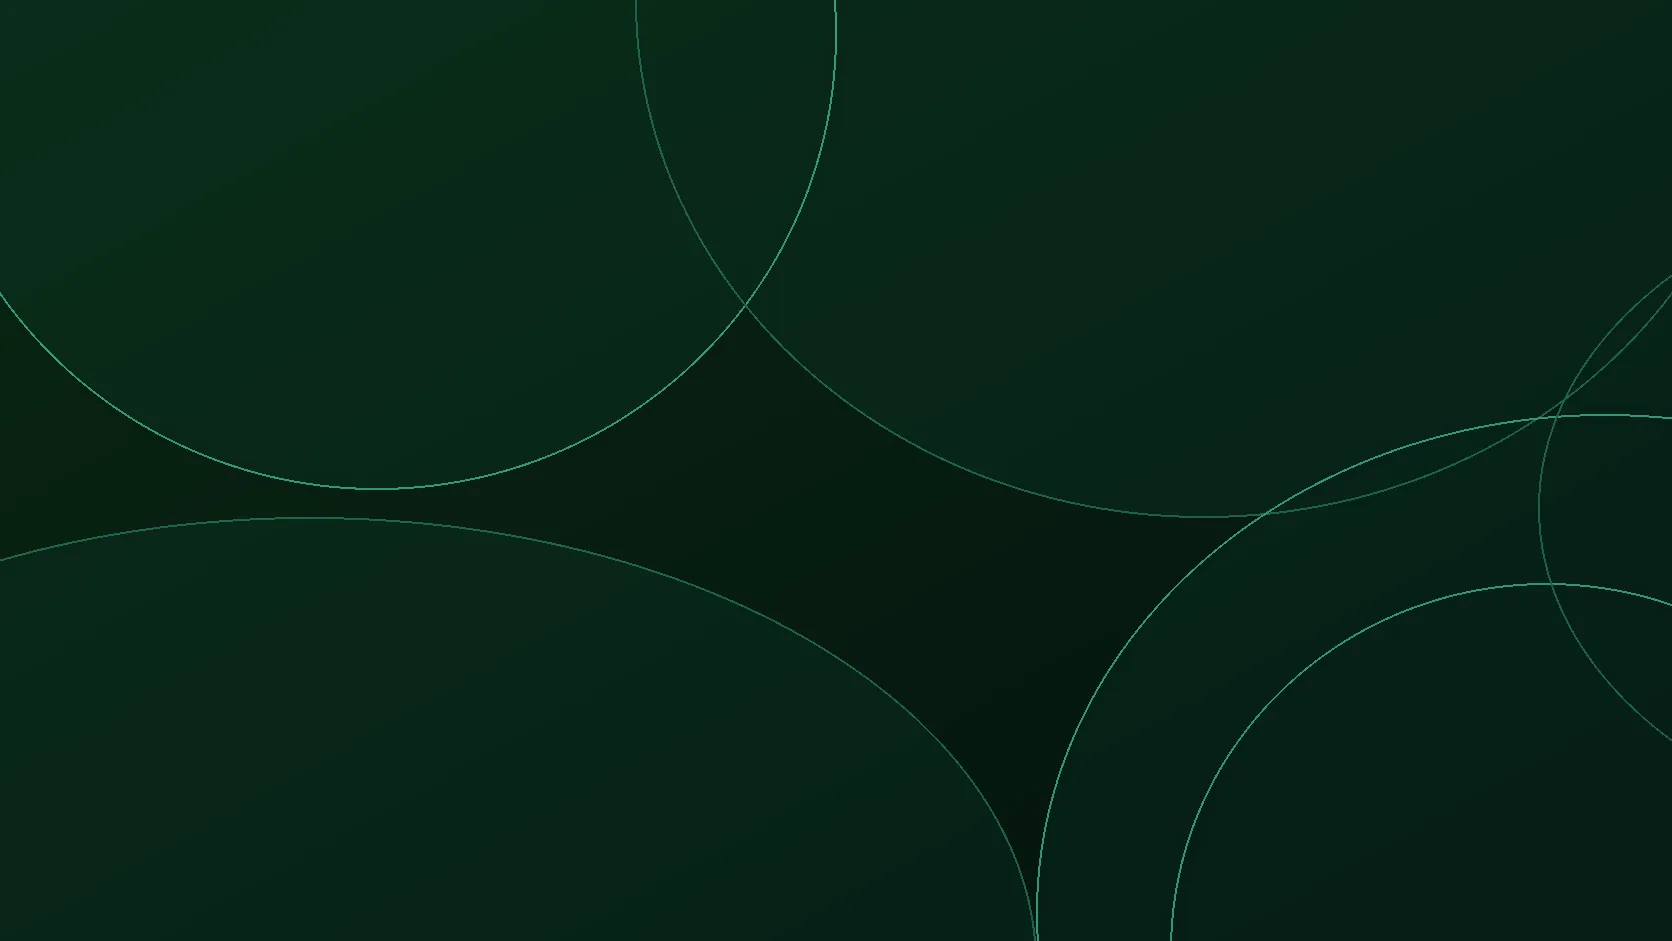
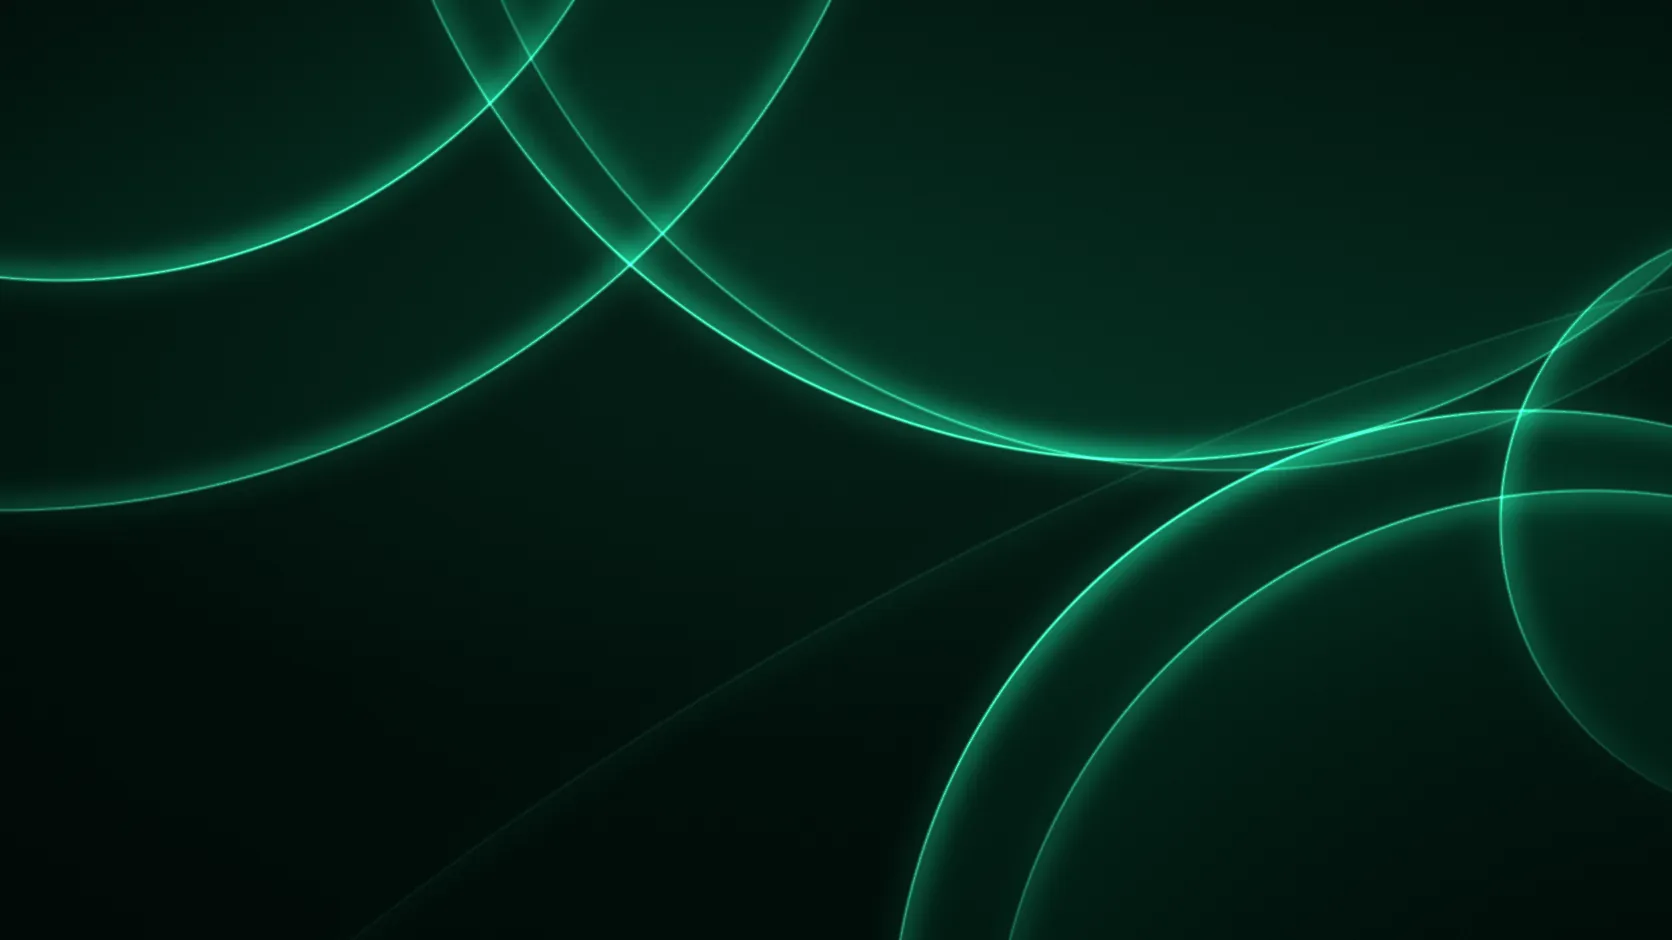
Cleaner verified seal on profile pictures; chat and call wallpaper now the green curved-circles design
Claude-Session: https://claude.ai/code/session_01SHXgtp5H5MrTn5P3Z991fA

diff --git a/public/css/app.css b/public/css/app.css
@@ -1665,7 +1665,7 @@ dialog.nodismiss .close{display:none!important}
 @media (max-width:860px){.mx-thread{background-size:480px 448px}}
 
 /* ---- chat in the dark design: curved backdrop, voice messages, files, call cards, unread line ---- */
-:root[data-theme=dark] .mx-thread{background-image:linear-gradient(rgba(5,18,15,.78),rgba(5,18,15,.78)),url(../img/call-bg-wide.webp);background-size:cover;background-position:center}
+:root[data-theme=dark] .mx-thread{background-image:linear-gradient(rgba(3,14,11,.42),rgba(3,14,11,.42)),url(../img/call-bg-wide.webp);background-size:cover;background-position:center}
 .mx-vn{display:flex;align-items:center;gap:12px;min-width:min(300px,60vw)}.mx-play{width:44px;height:44px;border-radius:50%;border:0;background:color-mix(in srgb,currentColor 14%,transparent);color:inherit;display:grid;place-items:center;flex:none;cursor:pointer}.mx-play svg{margin-left:2px}.mx-vn.playing .mx-play svg{display:none}.mx-vn.playing .mx-play:after{content:"";width:12px;height:14px;border-left:4px solid currentColor;border-right:4px solid currentColor}
 .mx-wv{display:flex;align-items:center;gap:2px;height:34px;flex:1}.mx-wv i{flex:1;max-width:5px;min-width:2px;border-radius:2px;background:currentColor;opacity:.35}.mx-wv i.on{background:#34d399;opacity:1}.mx-row:not(.me) .mx-wv i.on{background:var(--brand)}
 .mx-vd{font-size:.8rem;opacity:.75;align-self:flex-end;margin-bottom:2px;white-space:nowrap}.mx-b.has-vn{padding-right:14px}
@@ -1909,3 +1909,8 @@ dialog.nodismiss .close{display:none!important}
   .legend{flex-wrap:wrap;gap:10px 16px}
 }
 .mh-head .active-t{background:var(--soft);color:var(--soft-t)}.mh-head .pg-h1{font-size:clamp(1.5rem,5vw,2.2rem)}
+/* verified seal on a profile picture: the seal itself, with a thin ring, no white disc */
+.pf-vb{width:auto;height:auto;border-radius:0;background:none;right:2px;bottom:4px;z-index:2;line-height:0;filter:drop-shadow(0 1px 3px rgba(0,0,0,.4))}
+.pf-vb .vseal{display:block;width:34px;height:34px;vertical-align:baseline}
+.pf-vb .vseal path:first-of-type{stroke:var(--bg);stroke-width:2.8;stroke-linejoin:round;paint-order:stroke}
+.pf-av{overflow:visible}

diff --git a/public/index.html b/public/index.html
@@ -30,10 +30,10 @@
 <link rel="modulepreload" href="js/maps.js">
 <link rel="modulepreload" href="js/data.js">
 <link rel="modulepreload" href="js/tour.js">
-<script src="js/boot.js?v=2026-10-09.90"></script>
-<link rel="stylesheet" href="css/fonts.css?v=2026-10-09.90">
+<script src="js/boot.js?v=2026-10-09.92"></script>
+<link rel="stylesheet" href="css/fonts.css?v=2026-10-09.92">
 <link rel="stylesheet" href="https://cdnjs.cloudflare.com/ajax/libs/leaflet/1.9.4/leaflet.min.css">
-<link rel="stylesheet" href="css/app.css?v=2026-10-09.90">
+<link rel="stylesheet" href="css/app.css?v=2026-10-09.92">
 <style>
   /* Splash screen: inline so it paints before anything else loads. The artwork is your image: its lines are revealed (drawn) over 2 seconds. */
   #splash{position:fixed;inset:0;z-index:1000;overflow:hidden;color:#fff;background:#01100c;font-family:Inter,system-ui,sans-serif;clip-path:circle(150% at 50% 44%);transition:clip-path .95s cubic-bezier(.75,0,.2,1),opacity .95s ease-in}
@@ -92,6 +92,6 @@
 </div>
 <div id="app"></div>
 <noscript>Faxton Rentals needs JavaScript to run.</noscript>
-<script type="module" src="js/main.js?v=2026-10-09.90"></script>
+<script type="module" src="js/main.js?v=2026-10-09.92"></script>
 </body>
 </html>

diff --git a/public/sw.js b/public/sw.js
@@ -1,6 +1,6 @@
 // Faxton Rentals service worker: makes the app installable and fast to reopen.
 // Same-origin files are cached (network first for pages, cache first for assets). Firebase and map requests are never touched.
-const CACHE = "faxton-v90";
+const CACHE = "faxton-v92";
 const SHELL = ["./", "index.html", "css/app.css", "css/fonts.css", "manifest.webmanifest", "assets/mark.svg", "img/hero-hd.webp", "img/splash-final.webp"];
 self.addEventListener("install", (e) => { e.waitUntil(caches.open(CACHE).then((c) => c.addAll(SHELL)).then(() => self.skipWaiting())); });
 self.addEventListener("activate", (e) => { e.waitUntil(caches.keys().then((k) => Promise.all(k.filter((n) => n !== CACHE).map((n) => caches.delete(n)))).then(() => self.clients.claim())); });

diff --git a/public/js/ui.js b/public/js/ui.js
@@ -132,4 +132,4 @@ export const friendlyErr = (e) => ({
   "permission-denied": "You don't have permission to do that.", "unavailable": "Can't reach the server. Check your connection.",
 }[e?.code?.replace("firestore/", "")] || `Something went wrong. Please try again.${e?.code || e?.message ? ` (${String(e.code || e.message).slice(0, 120)})` : ""}`);
 
-export const BUILD = "2026-10-09.90";
+export const BUILD = "2026-10-09.92";
